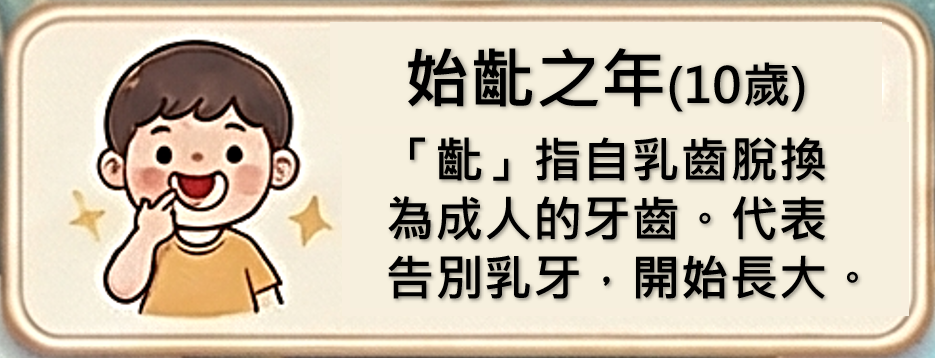
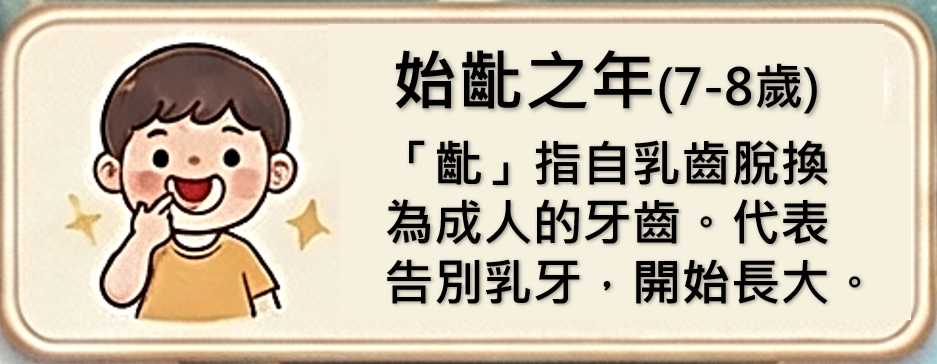
新增加強複習並更新圖片

diff --git a/index.html b/index.html
@@ -7,6 +7,8 @@
   
   <!-- 引入 Tailwind CSS (樣式) -->
   <script src="https://cdn.tailwindcss.com"></script>
+  <link rel="preload" as="image" href="年齡解答.png" fetchpriority="high">
+  <link rel="preload" as="image" href="年齡題目.png" fetchpriority="high">
   
   <!-- 引入 React 和 ReactDOM - 使用 jsDelivr 作為主要，unpkg 作為備用 -->
   <script crossorigin src="https://cdn.jsdelivr.net/npm/react@18.2.0/umd/react.production.min.js"></script>
@@ -201,6 +203,7 @@
     const TimerIcon = (props) => <IconBase {...props}><circle cx="12" cy="12" r="10"/><polyline points="12 6 12 12 16 14"/></IconBase>;
     const Bomb = (props) => <IconBase {...props}><circle cx="12" cy="13" r="9"/><path d="M11 2a1 1 0 0 1 2 0v2h-2V2z"/><path d="m20.5 5.5-1.5 1.5"/></IconBase>;
     const Skull = (props) => <IconBase {...props}><path d="m12.5 17-.5-1-.5 1h1z"/><path d="M15 22a1 1 0 0 0 1-1v-1a2 2 0 0 0 1.56-3.25 8 8 0 1 0-11.12 0A2 2 0 0 0 8 20v1a1 1 0 0 0 1 1h6z"/><circle cx="15" cy="12" r="1"/><circle cx="9" cy="12" r="1"/></IconBase>;
+    const BookOpen = (props) => <IconBase {...props}><path d="M2 3h6a4 4 0 0 1 4 4v14a3 3 0 0 0-3-3H2z"/><path d="M22 3h-6a4 4 0 0 0-4 4v14a3 3 0 0 1 3-3h7z"/></IconBase>;
 
 
     // --- 編輯區域組件 ---
@@ -262,6 +265,7 @@
 
       return (
         <div
+          data-item-name={item.name}
           className={`absolute transition-all duration-300 rounded-lg flex items-center justify-center z-20 overflow-hidden
             ${isPlaced ? 'opacity-100 shadow-lg scale-100 cursor-grab active:cursor-grabbing hover:brightness-110' : 'opacity-0'}
           `}
@@ -386,11 +390,11 @@
       useEffect(() => { itemsRef.current = items; }, [items]);
 
       useEffect(() => {
-        const imageSources = ['年齡題目.png', ...itemsRef.current.map(item => `${item.name}.png`)];
+        const imageSources = ['年齡解答.png', '年齡題目.png', ...itemsRef.current.map(item => `${item.name}.png`)];
         const preloadedImages = imageSources.map((src, index) => {
           const image = new Image();
           image.decoding = 'async';
-          if ('fetchPriority' in image) image.fetchPriority = index === 0 ? 'high' : 'low';
+          if ('fetchPriority' in image) image.fetchPriority = index < 2 ? 'high' : 'low';
           image.src = src;
           image.decode?.().catch(() => {});
           return image;
@@ -515,6 +519,10 @@
         setItems(prev => [...prev].sort(() => Math.random() - 0.5));
       };
 
+      const reviewAnswers = () => {
+        sounds.stopAll(); setPlacedItems({}); setDraggingItemId(null); setIsExploding(false); setMemTime(10); setGameTime(60); setMode('review');
+      };
+
       const returnToEdit = () => { setMode('edit'); setPlacedItems({}); setScore(0); setMemTime(0); };
 
       const handleDragStart = (e, item) => {
@@ -594,7 +602,7 @@
 
       const visibleTrayItems = useMemo(() => {
         if (mode === 'edit') return items;
-        if (mode === 'memory' || mode === 'start') return [];
+        if (mode === 'memory' || mode === 'review' || mode === 'start') return [];
         const unplacedItems = items.filter(item => !placedItems[item.id]);
         return [...unplacedItems].sort(() => Math.random() - 0.5).slice(0, 4);
       }, [items, mode, placedItems]);
@@ -603,7 +611,7 @@
       const rightTrayItems = useMemo(() => visibleTrayItems.slice(2, 4), [visibleTrayItems]);
 
       const currentBgImage = useMemo(() => {
-        if (mode === 'memory') return '年齡解答.png';
+        if (mode === 'memory' || mode === 'review') return '年齡解答.png';
         if (mode === 'play' || mode === 'won' || mode === 'failed') return '年齡題目.png'; 
         return bgImage && bgImage !== '年齡題目.png' ? bgImage : '年齡題目.png'; // Always show a valid image
       }, [mode, bgImage]);
@@ -666,12 +674,17 @@
                     <Bomb size={24} className="text-red-400" /><span className="game-status-text font-mono font-bold text-3xl text-red-500">記憶倒數: {memTime}</span>
                     </div>
                 )}
+                {mode === 'review' && (
+                    <div className="game-status-pill flex items-center gap-2 bg-emerald-900/80 px-5 py-1.5 rounded-full border border-emerald-500">
+                    <BookOpen size={24} className="text-emerald-300" /><span className="game-status-text font-bold text-xl text-emerald-200">加強複習中・點選重玩開始倒數</span>
+                    </div>
+                )}
                 {(mode === 'play') && (
                     <div className="game-status-pill flex items-center gap-2 bg-slate-700/80 px-4 py-1.5 rounded-full border border-slate-500">
                     <TimerIcon size={24} className={gameTime < 10 ? "text-red-400" : "text-white"} /><span className={`game-status-text font-mono font-bold text-3xl ${gameTime < 10 ? "text-red-500 animate-pulse" : "text-white"}`}>{gameTime}</span>
                     </div>
                 )}
-                {mode !== 'edit' && mode !== 'memory' && mode !== 'start' && (
+                {mode !== 'edit' && mode !== 'memory' && mode !== 'review' && mode !== 'start' && (
                     <div className="game-status-pill flex items-center gap-2 bg-slate-900/50 px-4 py-1.5 rounded-full border border-slate-700 animate-in fade-in slide-in-from-top-4">
                     <Star size={24} className="text-yellow-400 fill-yellow-400" /><span className="game-status-text font-mono font-bold text-2xl text-yellow-400">{score}</span>
                     </div>
@@ -704,14 +717,14 @@
             {/* Game Board Center */}
             <div ref={boardWrapRef} className="game-board-wrap flex-1 min-w-0 bg-black/50 relative flex items-center justify-center p-2 overflow-hidden">
               <div ref={containerRef} className={`game-board relative shadow-2xl rounded-xl bg-slate-800 transition-all duration-300 overflow-hidden ${isExploding ? 'animate-explode' : ''}`} style={boardStyle}>
-                <img key={currentBgImage} src={currentBgImage} alt="Game Background" decoding="async" className="absolute inset-0 w-full h-full object-fill pointer-events-none select-none block rounded-xl" onLoad={handleBgLoad} onError={(e) => { e.target.style.display = 'none'; e.target.nextSibling.style.display = 'flex'; }} />
-                <div className="hidden w-full h-full flex-col items-center justify-center text-slate-500 border-4 border-dashed border-slate-700 m-4 rounded-xl bg-slate-900 absolute inset-0"><ImageIcon size={64} className="mb-4 opacity-50" /><p className="text-xl mt-4">請確認圖片檔案：</p><p className="text-lg font-mono text-yellow-500">{mode === 'memory' ? '年齡解答.png' : '年齡題目.png'}</p></div>
+                <img src={currentBgImage} alt="Game Background" decoding="async" loading="eager" fetchPriority="high" className="absolute inset-0 w-full h-full object-fill pointer-events-none select-none block rounded-xl" onLoad={handleBgLoad} onError={(e) => { e.target.style.display = 'none'; e.target.nextSibling.style.display = 'flex'; }} />
+                <div className="hidden w-full h-full flex-col items-center justify-center text-slate-500 border-4 border-dashed border-slate-700 m-4 rounded-xl bg-slate-900 absolute inset-0"><ImageIcon size={64} className="mb-4 opacity-50" /><p className="text-xl mt-4">請確認圖片檔案：</p><p className="text-lg font-mono text-yellow-500">{mode === 'memory' || mode === 'review' ? '年齡解答.png' : '年齡題目.png'}</p></div>
                 <div className="absolute inset-0">
                   {mode !== 'memory' && mode === 'edit' && items.map(item => (<EditZone key={item.id} item={item} containerRef={containerRef} onUpdate={updateItem} onDelete={deleteItem} />))}
                   {mode !== 'memory' && mode !== 'start' && (mode === 'play' || mode === 'won') && items.map(item => (<GameTarget key={item.id} item={item} isPlaced={placedItems[item.id]} onDragStart={handleDragStart} />))}
                 </div>
-                {mode === 'won' && (<div className="absolute inset-0 bg-black/60 backdrop-blur-sm flex flex-col items-center justify-center z-50 animate-in fade-in zoom-in duration-500 rounded-xl overflow-hidden"><Fireworks /><div className="bg-white text-slate-900 p-12 rounded-2xl shadow-2xl flex flex-col items-center max-w-lg text-center transform rotate-1 relative z-50"><div className="w-24 h-24 bg-yellow-400 rounded-full flex items-center justify-center -mt-20 mb-6 shadow-lg border-4 border-white"><Trophy size={48} className="text-yellow-800" /></div><h2 className="text-4xl font-extrabold mb-4 text-indigo-600">挑戰成功！</h2><p className="text-slate-500 mb-2 text-xl">最終得分</p><p className="text-6xl font-mono font-bold text-yellow-500 mb-8">{score}</p><button onClick={resetGame} className="w-full py-4 bg-indigo-600 text-white rounded-xl font-bold text-xl hover:bg-indigo-700 transition-colors shadow-lg shadow-indigo-200">再玩一次</button></div></div>)}
-                {mode === 'failed' && (<div className="absolute inset-0 bg-black/80 backdrop-blur-sm flex flex-col items-center justify-center z-50 animate-in fade-in zoom-in duration-500 rounded-xl overflow-hidden"><div className="bg-white text-slate-900 p-12 rounded-2xl shadow-2xl flex flex-col items-center max-w-lg text-center relative z-50 border-4 border-red-500"><div className="w-24 h-24 bg-red-100 rounded-full flex items-center justify-center -mt-20 mb-6 shadow-lg border-4 border-red-500"><Skull size={48} className="text-red-600" /></div><h2 className="text-4xl font-extrabold mb-4 text-red-600">挑戰失敗</h2><p className="text-slate-500 mb-2 text-xl">時間到！</p><button onClick={resetGame} className="w-full py-4 bg-slate-700 text-white rounded-xl font-bold text-xl hover:bg-slate-600 transition-colors shadow-lg mt-4">再試一次</button></div></div>)}
+                {mode === 'won' && (<div className="absolute inset-0 bg-black/60 backdrop-blur-sm flex flex-col items-center justify-center z-50 animate-in fade-in zoom-in duration-500 rounded-xl overflow-hidden"><Fireworks /><div className="bg-white text-slate-900 p-12 rounded-2xl shadow-2xl flex flex-col items-center max-w-lg text-center transform rotate-1 relative z-50"><div className="w-24 h-24 bg-yellow-400 rounded-full flex items-center justify-center -mt-20 mb-6 shadow-lg border-4 border-white"><Trophy size={48} className="text-yellow-800" /></div><h2 className="text-4xl font-extrabold mb-4 text-indigo-600">挑戰成功！</h2><p className="text-slate-500 mb-2 text-xl">最終得分</p><p className="text-6xl font-mono font-bold text-yellow-500 mb-8">{score}</p><div className="w-full grid grid-cols-1 sm:grid-cols-2 gap-3"><button onClick={resetGame} className="w-full py-4 bg-indigo-600 text-white rounded-xl font-bold text-xl hover:bg-indigo-700 transition-colors shadow-lg shadow-indigo-200">再玩一次</button><button onClick={reviewAnswers} className="w-full py-4 bg-emerald-600 text-white rounded-xl font-bold text-xl hover:bg-emerald-700 transition-colors shadow-lg shadow-emerald-200">加強複習</button></div></div></div>)}
+                {mode === 'failed' && (<div className="absolute inset-0 bg-black/80 backdrop-blur-sm flex flex-col items-center justify-center z-50 animate-in fade-in zoom-in duration-500 rounded-xl overflow-hidden"><div className="bg-white text-slate-900 p-12 rounded-2xl shadow-2xl flex flex-col items-center max-w-lg text-center relative z-50 border-4 border-red-500"><div className="w-24 h-24 bg-red-100 rounded-full flex items-center justify-center -mt-20 mb-6 shadow-lg border-4 border-red-500"><Skull size={48} className="text-red-600" /></div><h2 className="text-4xl font-extrabold mb-4 text-red-600">挑戰失敗</h2><p className="text-slate-500 mb-2 text-xl">時間到！</p><div className="w-full grid grid-cols-1 sm:grid-cols-2 gap-3 mt-4"><button onClick={resetGame} className="w-full py-4 bg-slate-700 text-white rounded-xl font-bold text-xl hover:bg-slate-600 transition-colors shadow-lg">再玩一次</button><button onClick={reviewAnswers} className="w-full py-4 bg-emerald-600 text-white rounded-xl font-bold text-xl hover:bg-emerald-700 transition-colors shadow-lg shadow-emerald-200">加強複習</button></div></div></div>)}
               </div>
             </div>
 
